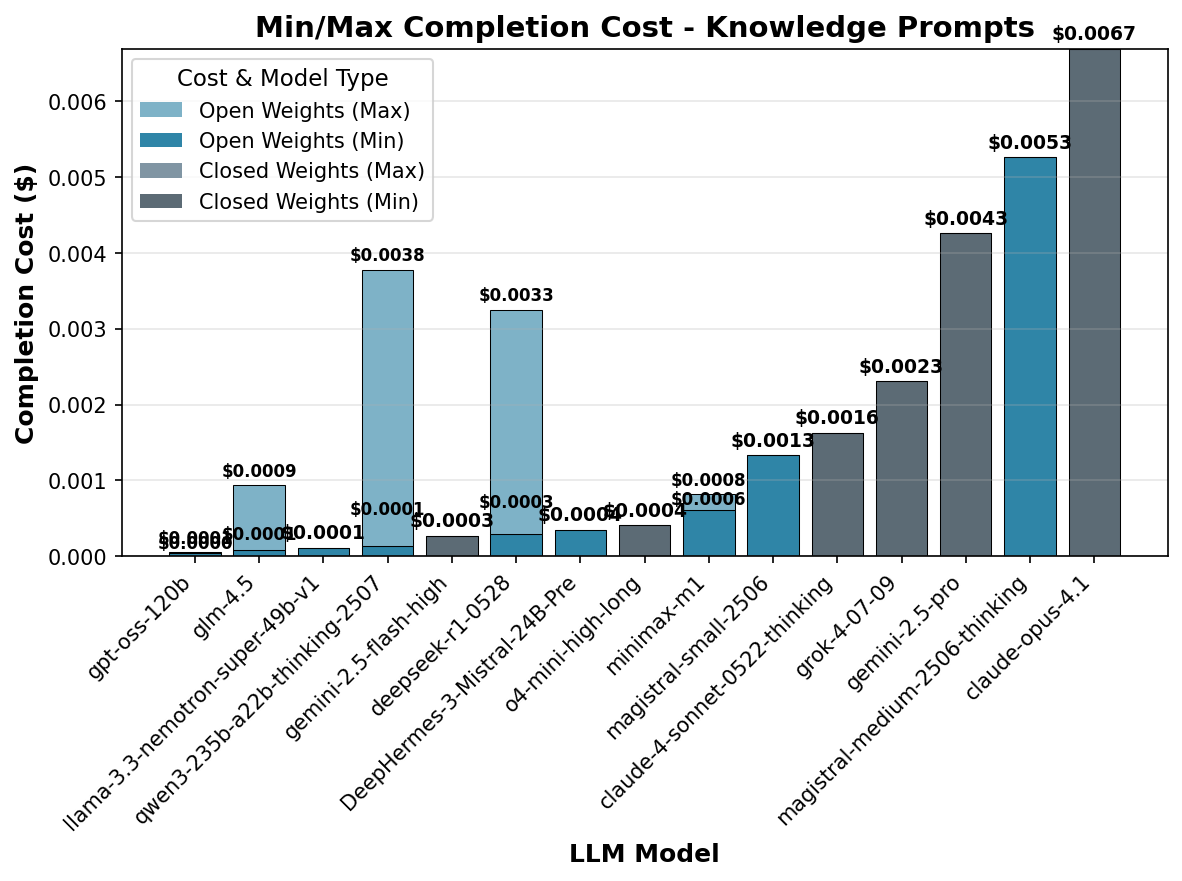
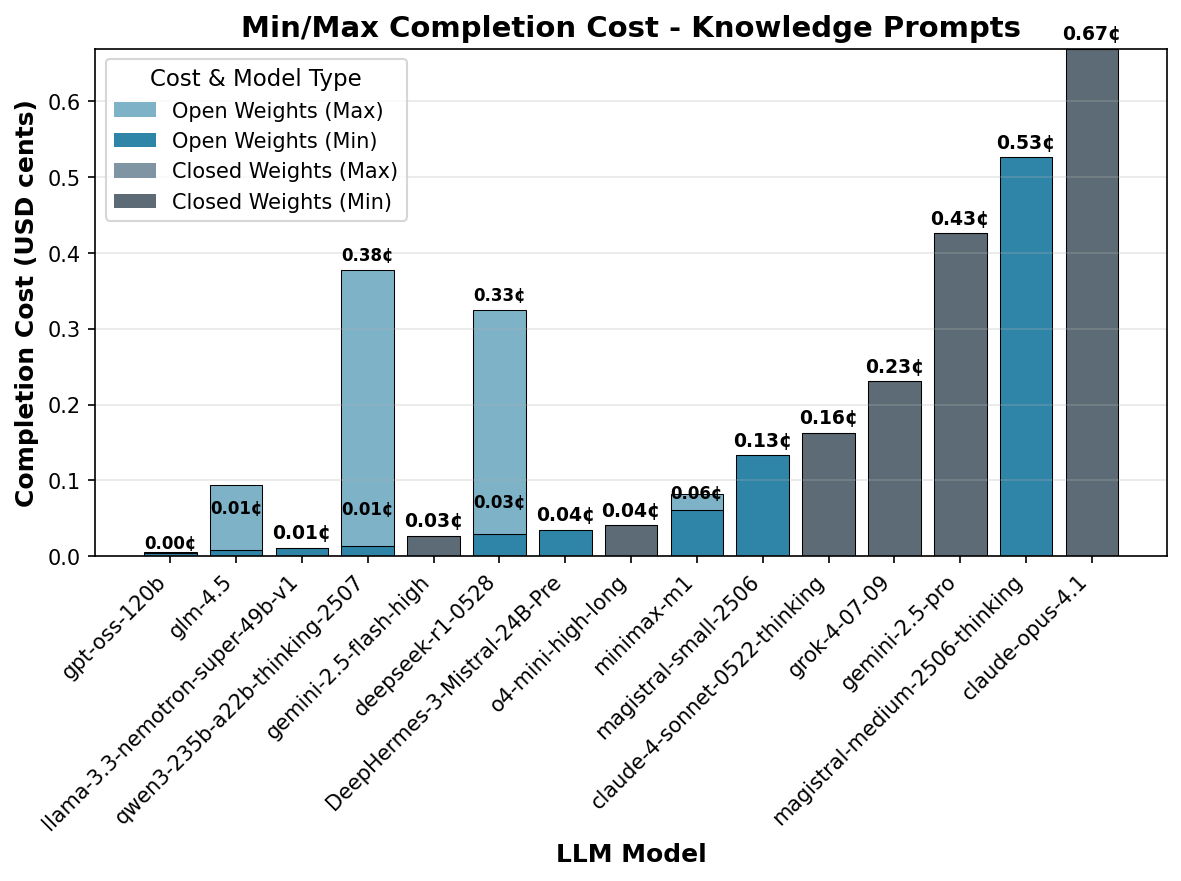
fix charts

diff --git a/analyze_cost.py b/analyze_cost.py
@@ -80,7 +80,7 @@ def get_model_open_weights(df_pricing: pd.DataFrame) -> pd.DataFrame:
         return df_pricing
 
 def create_pricing_bar_chart(df: pd.DataFrame, output_path: Path, figsize: Tuple[float, float]) -> None:
-    """Create bar chart showing completion token pricing with min/max shades and mean lines."""
+    """Create bar chart showing completion token pricing (USD / 1M tokens) with min/max."""
     
     # Prepare data - extract model names for better display
     df['short_name'] = df['model_name'].str.split('/').str[-1]
@@ -104,17 +104,15 @@ def create_pricing_bar_chart(df: pd.DataFrame, output_path: Path, figsize: Tuple
         is_open = row['open_weights']
         colors = open_colors if is_open else closed_colors
         
-        # Max value bar
-        ax.bar(i, row['completion_max'], width=bar_width, 
-              color=colors['max'], alpha=0.6, 
-              edgecolor='black', linewidth=0.5)
-        
-        # Min value bar (overlay)
-        ax.bar(i, row['completion_min'], width=bar_width, 
-              color=colors['min'], alpha=0.8, 
-              edgecolor='black', linewidth=0.5)
+        # Revert to dollars (remove cents scaling)
+        ax.bar(i, row['completion_max'], width=bar_width,
+               color=colors['max'], alpha=0.6,
+               edgecolor='black', linewidth=0.5)
+        ax.bar(i, row['completion_min'], width=bar_width,
+               color=colors['min'], alpha=0.8,
+               edgecolor='black', linewidth=0.5)
     
-    ax.set_ylabel('$/1M tokens', fontsize=12, fontweight='bold')
+    ax.set_ylabel('USD / 1M tokens', fontsize=12, fontweight='bold')
     # ax.set_xlabel('LLM Model', fontsize=12, fontweight='bold')
     ax.set_title('Completion Token Pricing', fontsize=14, fontweight='bold')
     
@@ -137,17 +135,23 @@ def create_pricing_bar_chart(df: pd.DataFrame, output_path: Path, figsize: Tuple
     # Add value labels for both min and max values
     for i, (_, row) in enumerate(df_sorted.iterrows()):
         if row['completion_min'] == row['completion_max']:
-            # If min=max, only add one label
-            ax.text(i, row['completion_max'] + 0.2, f'${row["completion_max"]:.2f}', 
+            ax.text(i, row['completion_max'] + 0.2, f'${row["completion_max"]:.2f}',
                     ha='center', va='bottom', fontsize=8, rotation=45)
         else:
-            # Add max value label
-            ax.text(i, row['completion_max'] + 0.2, f'${row["completion_max"]:.2f}', 
-                    ha='center', va='bottom', fontsize=8, rotation=45)
-            
-            # Add min value label
-            ax.text(i, row['completion_min'] + 0.1, f'${row["completion_min"]:.2f}', 
-                    ha='center', va='bottom', fontsize=8, rotation=45)
+            # Check if labels would overlap
+            max_val = df_sorted['completion_max'].max()
+            label_spacing_threshold = max_val * 0.15  # 15% of max value as threshold
+            if (row['completion_max'] - row['completion_min']) > label_spacing_threshold:
+                # Enough space for both labels
+                ax.text(i, row['completion_max'] + 0.2, f'${row["completion_max"]:.2f}',
+                        ha='center', va='bottom', fontsize=8, rotation=45)
+                ax.text(i, row['completion_min'] + 0.1, f'${row["completion_min"]:.2f}',
+                        ha='center', va='bottom', fontsize=8, rotation=45)
+            else:
+                # Not enough space, show only min label
+                ax.text(i, row['completion_min'] + (row['completion_max'] - row['completion_min']) * 0.5, 
+                        f'${row["completion_min"]:.2f}',
+                        ha='center', va='bottom', fontsize=8, rotation=45)
     
     # Adjust layout
     plt.tight_layout()
@@ -159,7 +163,7 @@ def create_pricing_bar_chart(df: pd.DataFrame, output_path: Path, figsize: Tuple
     print(f"Created pricing bar chart: {output_path.name}")
 
 def create_cost_heatmap(df_pricing: pd.DataFrame, output_path: Path, figsize: Tuple[float, float]) -> None:
-    """Create heatmap showing completion cost by prompt type and LLM model."""
+    """Create heatmap showing completion cost (USD cents) by prompt type and LLM model."""
     
     try:
         # Load evaluation data
@@ -224,8 +228,10 @@ def create_cost_heatmap(df_pricing: pd.DataFrame, output_path: Path, figsize: Tu
             suffixes=('', '_pricing')
         )
         
-        # Calculate completion cost: mean_tokens * (min_cost_per_million / 1M)
+        # Calculate completion cost in dollars first
         completion_stats['completion_cost'] = completion_stats['tokens_completion'] * completion_stats['completion_min'] / 1_000_000
+        # Convert to cents
+        completion_stats['completion_cost'] = completion_stats['completion_cost'] * 100.0
         
         # Create pivot table for heatmap
         heatmap_data = completion_stats.pivot_table(
@@ -255,13 +261,13 @@ def create_cost_heatmap(df_pricing: pd.DataFrame, output_path: Path, figsize: Tu
         fig, ax = plt.subplots(figsize=(fig_width, figsize[1]))
         
         # Create heatmap
-        sns.heatmap(heatmap_data, 
-                   annot=True, 
-                   fmt='.4f', 
-                   cmap='YlOrRd',
-                   cbar_kws={'label': 'Completion Cost ($)'},
-                   ax=ax,
-                   linewidths=0.5)
+        sns.heatmap(heatmap_data,
+                    annot=True,
+                    fmt='.2f',
+                    cmap='YlOrRd',
+                    cbar_kws={'label': 'Completion Cost (USD cents)'},
+                    ax=ax,
+                    linewidths=0.5)
         
         ax.set_title('Completion Cost by Model and Prompt', fontsize=14, fontweight='bold')
         ax.set_xlabel('Prompt ID', fontsize=12, fontweight='bold')
@@ -290,7 +296,7 @@ def create_cost_heatmap(df_pricing: pd.DataFrame, output_path: Path, figsize: Tu
         plt.close(fig)
         
         print(f"Created cost heatmap: {output_path.name}")
-        print(f"  Cost range: ${heatmap_data.min().min():.4f} - ${heatmap_data.max().max():.4f}")
+        print(f"  Cost range: {heatmap_data.min().min():.2f}¢ - {heatmap_data.max().max():.2f}¢")
         
     except FileNotFoundError:
         print("Warning: evaluation_stats.csv not found, skipping heatmap creation")
@@ -298,7 +304,7 @@ def create_cost_heatmap(df_pricing: pd.DataFrame, output_path: Path, figsize: Tu
         print(f"Error creating heatmap: {e}")
 
 def create_mean_cost_bar_chart(df_pricing: pd.DataFrame, output_path: Path, figsize: Tuple[float, float]) -> None:
-    """Create stacked bar chart showing min and max completion costs by LLM and type."""
+    """Create stacked bar chart showing min and max completion costs (USD cents) by LLM and type."""
     
     try:
         # Load evaluation data
@@ -367,6 +373,10 @@ def create_mean_cost_bar_chart(df_pricing: pd.DataFrame, output_path: Path, figs
         cost_stats['min_cost'] = cost_stats['mean_tokens'] * cost_stats['completion_min'] / 1_000_000
         cost_stats['max_cost'] = cost_stats['mean_tokens'] * cost_stats['completion_max'] / 1_000_000
         
+        # Convert to cents
+        cost_stats['min_cost_cents'] = cost_stats['min_cost'] * 100.0
+        cost_stats['max_cost_cents'] = cost_stats['max_cost'] * 100.0
+        
         # Get open_weights information for models
         model_open_weights = {}
         for _, row in eval_df[['model_name', 'open_weights']].drop_duplicates().iterrows():
@@ -411,8 +421,8 @@ def create_mean_cost_bar_chart(df_pricing: pd.DataFrame, output_path: Path, figs
         for i, ptype in enumerate(types):
             type_data = cost_stats[cost_stats['type'] == ptype].set_index('model_name')
             
-            min_costs = [type_data.loc[model, 'min_cost'] if model in type_data.index else 0 for model in models]
-            max_costs = [type_data.loc[model, 'max_cost'] if model in type_data.index else 0 for model in models]
+            min_costs = [type_data.loc[model, 'min_cost_cents'] if model in type_data.index else 0 for model in models]
+            max_costs = [type_data.loc[model, 'max_cost_cents'] if model in type_data.index else 0 for model in models]
             
             # Calculate the additional height for max (max - min)
             additional_heights = [max_cost - min_cost for min_cost, max_cost in zip(min_costs, max_costs)]
@@ -452,19 +462,26 @@ def create_mean_cost_bar_chart(df_pricing: pd.DataFrame, output_path: Path, figs
                     h_min = bar_min.get_height()
                     h_max = h_min + bar_max.get_height()
                     
-                    if abs(h_min - h_max) < 1e-6: # If min and max are the same
-                        ax.text(bar_max.get_x() + bar_max.get_width() / 2., h_max, f'${h_max:.3f}',
+                    if abs(h_min - h_max) < 1e-6:
+                        # Single value, show only one label
+                        ax.text(bar_max.get_x() + bar_max.get_width()/2., h_max, f'{h_max:.3f}¢',
                                 ha='center', va='bottom', fontsize=7, rotation=45)
                     else:
-                        ax.text(bar_max.get_x() + bar_max.get_width() / 2., h_max, f'${h_max:.3f}',
-                                ha='center', va='bottom', fontsize=7, rotation=45)
-                        if h_min > 0:
-                             ax.text(bar_min.get_x() + bar_min.get_width() / 2., h_min, f'${h_min:.3f}',
-                                     ha='center', va='bottom', fontsize=7, rotation=45)
+                        # Check if labels would overlap (if difference is small relative to max value)
+                        label_spacing_threshold = max(max_costs) * 0.15  # 15% of max value as threshold
+                        if (h_max - h_min) > label_spacing_threshold:
+                            # Enough space for both labels
+                            ax.text(bar_max.get_x() + bar_max.get_width()/2., h_max, f'{h_max:.3f}¢',
+                                    ha='center', va='bottom', fontsize=7, rotation=45)
+                            ax.text(bar_min.get_x() + bar_min.get_width()/2., h_min, f'{h_min:.3f}¢',
+                                    ha='center', va='bottom', fontsize=7, rotation=45)
+                        else:
+                            # Not enough space, show only min label
+                            ax.text(bar_min.get_x() + bar_min.get_width()/2., h_min, f'{h_min:.3f}¢',
+                                    ha='center', va='bottom', fontsize=7, rotation=45)
 
-        # Customize plot
+        ax.set_ylabel('Completion Cost (USD cents)', fontsize=12, fontweight='bold')
         ax.set_xlabel('LLM Model', fontsize=12, fontweight='bold')
-        ax.set_ylabel('Completion Cost ($)', fontsize=12, fontweight='bold')
         ax.set_title('Min/Max Completion Cost by Model and Prompt Type', fontsize=14, fontweight='bold')
         
         # Set x-axis
@@ -503,13 +520,13 @@ def create_mean_cost_bar_chart(df_pricing: pd.DataFrame, output_path: Path, figs
         print(f"Created min/max cost bar chart: {output_path.name}")
         
         # Print summary statistics
-        overall_stats = cost_stats.groupby('type')[['min_cost', 'max_cost']].agg(['mean', 'min', 'max'])
-        print(f"\nCost Summary by Type:")
+        overall_stats = cost_stats.groupby('type')[['min_cost_cents', 'max_cost_cents']].agg(['mean', 'min', 'max'])
+        print(f"\nCost Summary by Type (USD cents):")
         for ptype in types:
             if ptype in overall_stats.index:
-                min_stats = overall_stats.loc[ptype, 'min_cost']
-                max_stats = overall_stats.loc[ptype, 'max_cost']
-                print(f"  {ptype}: Min=${min_stats['min']:.4f}-${min_stats['max']:.4f}, Max=${max_stats['min']:.4f}-${max_stats['max']:.4f}")
+                min_stats = overall_stats.loc[ptype, 'min_cost_cents']
+                max_stats = overall_stats.loc[ptype, 'max_cost_cents']
+                print(f"  {ptype}: Min={min_stats['min']:.2f}¢-{min_stats['max']:.2f}¢, Max={max_stats['min']:.2f}¢-{max_stats['max']:.2f}¢")
         
     except FileNotFoundError:
         print("Warning: evaluation_stats.csv not found, skipping min/max cost bar chart creation")
@@ -517,7 +534,7 @@ def create_mean_cost_bar_chart(df_pricing: pd.DataFrame, output_path: Path, figs
         print(f"Error creating min/max cost bar chart: {e}")
 
 def create_individual_type_bar_charts(df_pricing: pd.DataFrame, output_dir: Path, figsize: Tuple[float, float]) -> None:
-    """Create separate bar charts for each prompt type."""
+    """Create separate bar charts (USD cents) for each prompt type."""
     
     try:
         # Load evaluation data
@@ -600,6 +617,9 @@ def create_individual_type_bar_charts(df_pricing: pd.DataFrame, output_dir: Path
             # Calculate min and max costs using mean tokens but min/max pricing
             cost_stats['min_cost'] = cost_stats['mean_tokens'] * cost_stats['completion_min'] / 1_000_000
             cost_stats['max_cost'] = cost_stats['mean_tokens'] * cost_stats['completion_max'] / 1_000_000
+            # Convert to cents for plotting
+            cost_stats['min_cost_cents'] = cost_stats['min_cost'] * 100.0
+            cost_stats['max_cost_cents'] = cost_stats['max_cost'] * 100.0
             cost_stats['count'] = type_data.groupby('model_name').size().values
             
             # Sort by min cost
@@ -609,8 +629,8 @@ def create_individual_type_bar_charts(df_pricing: pd.DataFrame, output_dir: Path
             fig, ax = plt.subplots(figsize=figsize)
             
             models = cost_stats['model_name'].tolist()
-            min_costs = cost_stats['min_cost'].tolist()
-            max_costs = cost_stats['max_cost'].tolist()
+            min_costs = cost_stats['min_cost_cents'].tolist()
+            max_costs = cost_stats['max_cost_cents'].tolist()
             
             # Calculate the additional height for max (max - min)
             additional_heights = [max_cost - min_cost for min_cost, max_cost in zip(min_costs, max_costs)]
@@ -639,7 +659,7 @@ def create_individual_type_bar_charts(df_pricing: pd.DataFrame, output_dir: Path
             
             # Customize plot
             ax.set_xlabel('LLM Model', fontsize=12, fontweight='bold')
-            ax.set_ylabel('Completion Cost ($)', fontsize=12, fontweight='bold')
+            ax.set_ylabel('Completion Cost (USD cents)', fontsize=12, fontweight='bold')
             ax.set_title(f'Min/Max Completion Cost - {ptype.title()} Prompts', fontsize=14, fontweight='bold')
             
             # Set x-axis
@@ -659,18 +679,24 @@ def create_individual_type_bar_charts(df_pricing: pd.DataFrame, output_dir: Path
             # Add grid
             ax.grid(True, alpha=0.3, axis='y')
             
-            # Add value labels on bars (show both min and max)
+            # Add value labels on bars (avoid overlap)
             for i, (min_cost, max_cost) in enumerate(zip(min_costs, max_costs)):
                 if min_cost == max_cost:
-                    # If min=max, only show one label
-                    ax.text(i, max_cost + max(max_costs) * 0.01, 
-                           f'${max_cost:.4f}', ha='center', va='bottom', fontsize=9, fontweight='bold')
+                    ax.text(i, max_cost + max(max_costs) * 0.01,
+                            f'{max_cost:.2f}¢', ha='center', va='bottom', fontsize=9, fontweight='bold')
                 else:
-                    # Show both min and max labels
-                    ax.text(i, max_cost + max(max_costs) * 0.01, 
-                           f'${max_cost:.4f}', ha='center', va='bottom', fontsize=8, fontweight='bold')
-                    ax.text(i, min_cost + (max_cost - min_cost) * 0.1, 
-                           f'${min_cost:.4f}', ha='center', va='bottom', fontsize=8, fontweight='bold')
+                    # Check if labels would overlap
+                    label_spacing_threshold = max(max_costs) * 0.15  # 15% of max value as threshold
+                    if (max_cost - min_cost) > label_spacing_threshold:
+                        # Enough space for both labels
+                        ax.text(i, max_cost + max(max_costs) * 0.01,
+                                f'{max_cost:.2f}¢', ha='center', va='bottom', fontsize=8, fontweight='bold')
+                        ax.text(i, min_cost + (max_cost - min_cost) * 0.1,
+                                f'{min_cost:.2f}¢', ha='center', va='bottom', fontsize=8, fontweight='bold')
+                    else:
+                        # Not enough space, show only min label
+                        ax.text(i, min_cost + (max_cost - min_cost) * 0.5,
+                                f'{min_cost:.2f}¢', ha='center', va='bottom', fontsize=8, fontweight='bold')
             
             # Adjust layout
             plt.tight_layout()
@@ -682,7 +708,7 @@ def create_individual_type_bar_charts(df_pricing: pd.DataFrame, output_dir: Path
             plt.close(fig)
             
             print(f"Created individual cost chart for {ptype}: {output_path.name}")
-            print(f"  Models: {len(models)}, Cost range: ${min(min_costs):.4f} - ${max(max_costs):.4f}")
+            print(f"  Models: {len(models)}, Cost range: {min(min_costs):.2f}¢ - {max(max_costs):.2f}¢")
         
         print(f"Created {len(types)} individual prompt type charts")
         
